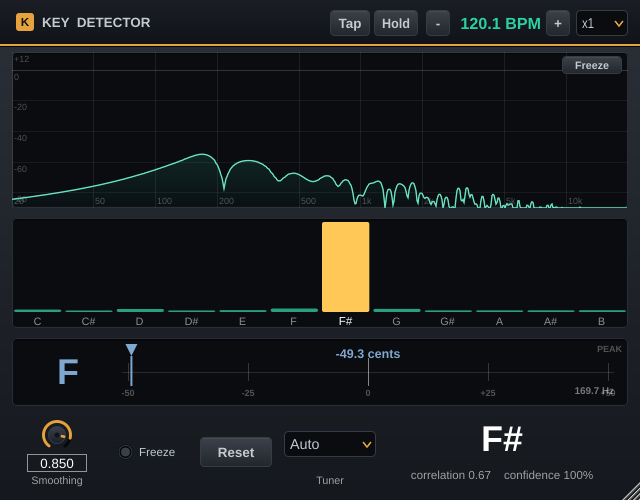
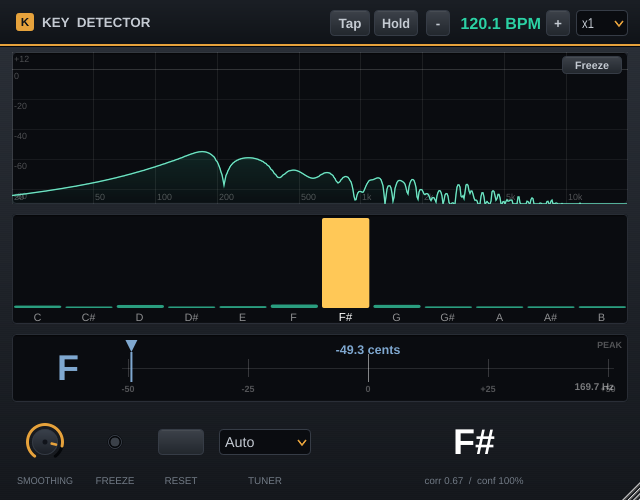
gui: align the bottom control strip into a clean column grid
- Controls (Smoothing knob, Freeze LED, Reset push-button, Tuner selector, Key)
  are each vertically centred in fixed columns; all captions sit on one baseline
  (SMOOTHING / FREEZE / RESET / TUNER / corr-conf).
- Freeze is now an LED-only toggle (LookAndFeel centres the LED when no text);
  Reset is a captioned push button; Smoothing knob drops its value box.
- Uniform small screened caption style.

diff --git a/Source/PluginEditor.cpp b/Source/PluginEditor.cpp
@@ -54,9 +54,9 @@ KeyDetectorAudioProcessorEditor::KeyDetectorAudioProcessorEditor (KeyDetectorAud
     content.addAndMakeVisible (keyLabel);
 
     detailLabel.setJustificationType (juce::Justification::centred);
-    detailLabel.setFont (juce::Font (juce::FontOptions (13.0f)));
-    detailLabel.setColour (juce::Label::textColourId, juce::Colours::white.withAlpha (0.6f));
-    detailLabel.setText ("waiting for audio...", juce::dontSendNotification);
+    detailLabel.setFont (juce::Font (juce::FontOptions (11.0f)));
+    detailLabel.setColour (juce::Label::textColourId, juce::Colour (console::textDim));
+    detailLabel.setText ("waiting...", juce::dontSendNotification);
     content.addAndMakeVisible (detailLabel);
 
     // Tempo readout (top-right of the header).
@@ -134,35 +134,41 @@ KeyDetectorAudioProcessorEditor::KeyDetectorAudioProcessorEditor (KeyDetectorAud
 
     setWantsKeyboardFocus (true); // so the T / H shortcuts are received
 
-    // --- Controls ---------------------------------------------------------------
+    // --- Controls (bottom strip) -----------------------------------------------
+    // Small screened caption under each control, all on one baseline.
+    auto styleCaption = [this] (juce::Label& l)
+    {
+        l.setJustificationType (juce::Justification::centred);
+        l.setFont (juce::Font (juce::FontOptions (11.0f)));
+        l.setColour (juce::Label::textColourId, juce::Colour (console::textDim));
+        content.addAndMakeVisible (l);
+    };
+
     smoothingSlider.setSliderStyle (juce::Slider::RotaryHorizontalVerticalDrag);
-    smoothingSlider.setTextBoxStyle (juce::Slider::TextBoxBelow, false, 60, 18);
+    smoothingSlider.setTextBoxStyle (juce::Slider::NoTextBox, false, 0, 0);
     content.addAndMakeVisible (smoothingSlider);
     smoothingAttachment = std::make_unique<SliderAttachment> (
         processorRef.apvts, "smoothing", smoothingSlider);
+    styleCaption (smoothingLabel);
 
-    smoothingLabel.setJustificationType (juce::Justification::centred);
-    smoothingLabel.setFont (juce::Font (juce::FontOptions (12.0f)));
-    smoothingLabel.setColour (juce::Label::textColourId, juce::Colours::white.withAlpha (0.6f));
-    content.addAndMakeVisible (smoothingLabel);
-
+    freezeButton.setButtonText ({});           // LED only; caption is below
     content.addAndMakeVisible (freezeButton);
     freezeAttachment = std::make_unique<ButtonAttachment> (
         processorRef.apvts, "freeze", freezeButton);
+    styleCaption (freezeLabel);
 
+    resetButton.setButtonText ({});            // push button; caption is below
     resetButton.onClick = [this] { processorRef.requestReset(); };
     content.addAndMakeVisible (resetButton);
+    styleCaption (resetLabel);
 
     // Tuner mode selector (Auto / Pitch / Peak).
     tunerModeBox.addItemList ({ "Auto", "Pitch", "Peak" }, 1);
     content.addAndMakeVisible (tunerModeBox);
     tunerModeAttachment = std::make_unique<ComboBoxAttachment> (
         processorRef.apvts, "tunerMode", tunerModeBox);
-
-    tunerModeLabel.setJustificationType (juce::Justification::centred);
-    tunerModeLabel.setFont (juce::Font (juce::FontOptions (12.0f)));
-    tunerModeLabel.setColour (juce::Label::textColourId, juce::Colours::white.withAlpha (0.6f));
-    content.addAndMakeVisible (tunerModeLabel);
+    styleCaption (tunerModeLabel);
+    tunerModeLabel.setText ("TUNER", juce::dontSendNotification);
 
     spectrumScratch.reserve ((size_t) KeyDetectorAudioProcessor::numBins);
 
@@ -226,25 +232,43 @@ void KeyDetectorAudioProcessorEditor::layoutContent()
 
     area.removeFromTop (40); // header
 
-    // Bottom control strip.
-    auto controls = area.removeFromBottom (72);
+    // Bottom control strip: a row of controls, each vertically centred in its own
+    // column, with all captions aligned on one baseline underneath.
+    auto strip = area.removeFromBottom (76);
     {
-        auto c = controls;
-        auto knob = c.removeFromLeft (90);
-        smoothingLabel.setBounds (knob.removeFromBottom (16));
-        smoothingSlider.setBounds (knob);
+        auto captions = strip.removeFromBottom (14);
+        strip.removeFromBottom (2);
+        auto ctl = strip; // control row
 
-        c.removeFromLeft (16);
-        freezeButton.setBounds (c.removeFromLeft (80).withSizeKeepingCentre (80, 30));
-        resetButton .setBounds (c.removeFromLeft (76).withSizeKeepingCentre (72, 30));
+        const int gap = 8;
+        auto column = [&] (int wdt) -> std::pair<juce::Rectangle<int>, juce::Rectangle<int>>
+        {
+            auto c = ctl.removeFromLeft (wdt);
+            auto p = captions.removeFromLeft (wdt);
+            ctl.removeFromLeft (gap);
+            captions.removeFromLeft (gap);
+            return { c, p };
+        };
 
-        c.removeFromLeft (10);
-        auto tm = c.removeFromLeft (92);
-        tunerModeLabel.setBounds (tm.removeFromBottom (16));
-        tunerModeBox.setBounds (tm.withSizeKeepingCentre (92, 26));
+        auto [sC, sP] = column (66);
+        smoothingSlider.setBounds (sC.withSizeKeepingCentre (46, 46));
+        smoothingLabel.setBounds (sP);
 
-        keyLabel.setBounds (c.removeFromTop (46));
-        detailLabel.setBounds (c);
+        auto [fC, fP] = column (58);
+        freezeButton.setBounds (fC.withSizeKeepingCentre (30, 30));
+        freezeLabel.setBounds (fP);
+
+        auto [rC, rP] = column (58);
+        resetButton.setBounds (rC.withSizeKeepingCentre (46, 26));
+        resetLabel.setBounds (rP);
+
+        auto [tC, tP] = column (94);
+        tunerModeBox.setBounds (tC.withSizeKeepingCentre (92, 26));
+        tunerModeLabel.setBounds (tP);
+
+        // Key column takes the remainder.
+        keyLabel.setBounds (ctl);
+        detailLabel.setBounds (captions);
     }
 
     area.removeFromBottom (10);
@@ -319,15 +343,14 @@ void KeyDetectorAudioProcessorEditor::timerCallback()
     if (chromaSum > 1.0e-4f && est.correlation >= 0.6f)
     {
         keyLabel.setText (est.noteName(), juce::dontSendNotification);
-        detailLabel.setText (
-            "correlation " + juce::String (est.correlation, 2)
-                + "    confidence " + juce::String (juce::roundToInt (est.confidence * 100.0f)) + "%",
-            juce::dontSendNotification);
+        detailLabel.setText ("corr " + juce::String (est.correlation, 2)
+                                 + "  /  conf " + juce::String (juce::roundToInt (est.confidence * 100.0f)) + "%",
+                             juce::dontSendNotification);
     }
     else
     {
         keyLabel.setText ("--", juce::dontSendNotification);
-        detailLabel.setText (chromaSum > 1.0e-4f ? "no clear key" : "waiting for audio...",
+        detailLabel.setText (chromaSum > 1.0e-4f ? "no clear key" : "waiting...",
                              juce::dontSendNotification);
     }
 }

diff --git a/Source/ConsoleLookAndFeel.h b/Source/ConsoleLookAndFeel.h
@@ -115,7 +115,10 @@ public:
     {
         auto bounds = b.getLocalBounds();
         const float d = 13.0f;
-        auto led = juce::Rectangle<float> (bounds.getX() + 1.0f, bounds.getCentreY() - d * 0.5f, d, d);
+        const bool  hasText = b.getButtonText().isNotEmpty();
+        auto led = hasText
+            ? juce::Rectangle<float> (bounds.getX() + 1.0f, bounds.getCentreY() - d * 0.5f, d, d)
+            : juce::Rectangle<float> (bounds.getCentreX() - d * 0.5f, bounds.getCentreY() - d * 0.5f, d, d);
         const bool on = b.getToggleState();
 
         if (on)
@@ -130,11 +133,14 @@ public:
         g.setColour (juce::Colour (console::edge));
         g.drawEllipse (led, 1.0f);
 
-        g.setColour (juce::Colour (console::text));
-        g.setFont (juce::Font (juce::FontOptions (13.0f)));
-        g.drawText (b.getButtonText(), bounds.getX() + (int) d + 8, bounds.getY(),
-                    bounds.getWidth() - (int) d - 8, bounds.getHeight(),
-                    juce::Justification::centredLeft, false);
+        if (hasText)
+        {
+            g.setColour (juce::Colour (console::text));
+            g.setFont (juce::Font (juce::FontOptions (13.0f)));
+            g.drawText (b.getButtonText(), bounds.getX() + (int) d + 8, bounds.getY(),
+                        bounds.getWidth() - (int) d - 8, bounds.getHeight(),
+                        juce::Justification::centredLeft, false);
+        }
     }
 
     //==============================================================================

diff --git a/Source/PluginEditor.h b/Source/PluginEditor.h
@@ -54,7 +54,9 @@ private:
     juce::Slider      smoothingSlider;
     juce::ToggleButton freezeButton { "Freeze" };
     juce::TextButton   resetButton  { "Reset" };
-    juce::Label        smoothingLabel { {}, "Smoothing" };
+    juce::Label        smoothingLabel { {}, "SMOOTHING" };
+    juce::Label        freezeLabel    { {}, "FREEZE" };
+    juce::Label        resetLabel     { {}, "RESET" };
 
     juce::ComboBox     tunerModeBox;
     juce::Label        tunerModeLabel { {}, "Tuner" };
